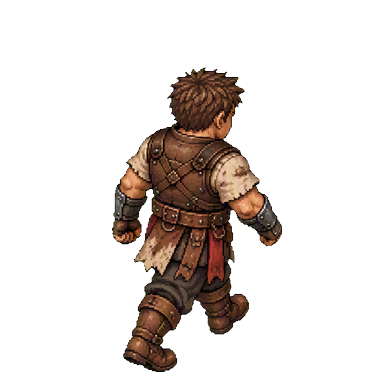
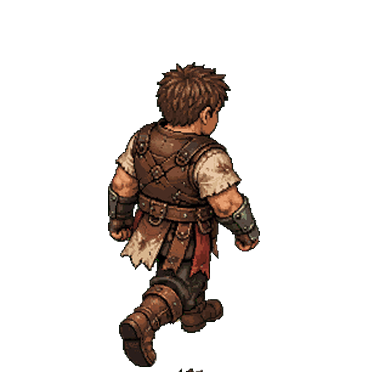
v97.90 Bram เดิน NE 12 เฟรม
Claude-Session: https://claude.ai/code/session_019t7yat9ZpwB9vYQUzd7rSJ

Changed region(s): [[0.2812, 0.1562, 0.75, 0.9688]]

diff --git a/village-town.html b/village-town.html
@@ -439,7 +439,7 @@ document.querySelectorAll('[data-game]').forEach(b=>b.onclick=()=>sendGame('menu
 
 document.addEventListener('pointerdown',()=>sendGame('input'),{capture:true});document.addEventListener('keydown',()=>sendGame('input'),{capture:true});
 rebuildRoads();heroRestore();renderList();fit();new ResizeObserver(fit).observe(stage);parent.postMessage({source:'project-a-town',type:'ready'},'*');document.fonts.ready.then(()=>terrainDirty=true);requestAnimationFrame(draw);const roadEdgeButton=$('roadEdgeStyle');if(roadEdgeButton){roadEdgeButton.onclick=()=>setRoadEdgeStyle(ROAD_EDGE_STYLE==='classic'?'texture':'classic');roadEdgeButton.textContent='ขอบถนน: '+(ROAD_EDGE_STYLE==='texture'?'ลายหินใหม่':'แบบเดิม');}
-</script><script src="js/village-layout-v67.js?v=82.14"></script><script src="js/village-grid.js?v=3"></script><script src="js/village-footprint.js?v=91.70"></script><script src="js/village-fence.js?v=1"></script><script src="js/town-ux.js?v=97.46"></script><script src="js/town-menu.js?v=72"></script><script src="js/village-biomes.js?v=72"></script><script src="js/village-forest.js?v=97.47"></script><script src="js/nature-alpha-masks.js"></script><script src="js/elements.js?v=97.50"></script><script src="js/world-state.js?v=97.76"></script><script src="js/villager-draw.js?v=97.89"></script><script src="js/village-life.js?v=97.76"></script><script src="js/village-lines.js?v=97.50"></script><script src="js/village-mind.js?v=97.34"></script><script src="js/town-npcs.js?v=97.40"></script><script src="js/town-quest.js?v=97.14"></script><script src="js/game-mood.js?v=74"></script><script src="js/hd2d.js?v=74"></script><script src="js/town-mood.js?v=91.74"></script><script src="js/village-frontage.js?v=83"></script><script src="js/proc-motion.js?v=81.8"></script><script src="js/github-push.js?v=97.03"></script><script src="js/village-asset-edit.js?v=97.47"></script><script>if(EDIT_PAGE&&window.TownPaint)GroundPaint.ui(TownPaint,{bar:()=>document.getElementById('townTools'),canvas:cv,toWorld:e=>world(e),before:()=>{TownUX.checkpoint();TownPaint.setClip?.(paintClip())},after:()=>TownUX.persist(),ensureEdit:()=>{if(!editing)$('edit').click()},onOpen:()=>{if(window.VillageAssetEdit?.placeId())VillageAssetEdit.leave();TownUX.setMode('object')}});</script><script src="js/editor-tools.js?v=91.77"></script><script src="js/asset-request.js?v=3"></script><script src="js/editor-auto.js?v=91.96"></script><script src="js/editor-layout.js?v=91.77"></script><script src="js/exit-edit.js?v=1"></script><script src="js/town-battle.js?v=97.78"></script><script src="js/console-ui.js?v=97.85"></script></html>
+</script><script src="js/village-layout-v67.js?v=82.14"></script><script src="js/village-grid.js?v=3"></script><script src="js/village-footprint.js?v=91.70"></script><script src="js/village-fence.js?v=1"></script><script src="js/town-ux.js?v=97.46"></script><script src="js/town-menu.js?v=72"></script><script src="js/village-biomes.js?v=72"></script><script src="js/village-forest.js?v=97.47"></script><script src="js/nature-alpha-masks.js"></script><script src="js/elements.js?v=97.50"></script><script src="js/world-state.js?v=97.76"></script><script src="js/villager-draw.js?v=97.90"></script><script src="js/village-life.js?v=97.76"></script><script src="js/village-lines.js?v=97.50"></script><script src="js/village-mind.js?v=97.34"></script><script src="js/town-npcs.js?v=97.40"></script><script src="js/town-quest.js?v=97.14"></script><script src="js/game-mood.js?v=74"></script><script src="js/hd2d.js?v=74"></script><script src="js/town-mood.js?v=91.74"></script><script src="js/village-frontage.js?v=83"></script><script src="js/proc-motion.js?v=81.8"></script><script src="js/github-push.js?v=97.03"></script><script src="js/village-asset-edit.js?v=97.47"></script><script>if(EDIT_PAGE&&window.TownPaint)GroundPaint.ui(TownPaint,{bar:()=>document.getElementById('townTools'),canvas:cv,toWorld:e=>world(e),before:()=>{TownUX.checkpoint();TownPaint.setClip?.(paintClip())},after:()=>TownUX.persist(),ensureEdit:()=>{if(!editing)$('edit').click()},onOpen:()=>{if(window.VillageAssetEdit?.placeId())VillageAssetEdit.leave();TownUX.setMode('object')}});</script><script src="js/editor-tools.js?v=91.77"></script><script src="js/asset-request.js?v=3"></script><script src="js/editor-auto.js?v=91.96"></script><script src="js/editor-layout.js?v=91.77"></script><script src="js/exit-edit.js?v=1"></script><script src="js/town-battle.js?v=97.78"></script><script src="js/console-ui.js?v=97.85"></script></html>
 
 
 <!-- Art sources and prompts: docs/ASSET_NOTES.txt. PNG objects are used for all buildings and props; roads and floor are native editable geometry. -->

diff --git a/js/villager-draw.js b/js/villager-draw.js
@@ -27,7 +27,7 @@
      (384×384, feet at y=372). v97.59: a direction without its own pictures uses the opposite one mirrored (SE←SW, NW←NE and back), so two directions are enough ·
      walk frames: 12 = a full 12-picture cycle (per-direction counts in wn; a direction with fewer pictures than its mirror uses the mirror's, flipped) · 4 = left contact, passing, right contact, passing · 2 = contact A, stand, contact B, stand · 1 = contact, stand, contact, stand · 0 = the standing picture with a bob.
      Falls back to the code-drawn figure until a standing picture has loaded. */
-  const SPR_INFO = { bram: { dirs: ['se', 'sw', 'ne', 'nw'], walk: 2, wn: { sw: 12 } }, luna: { dirs: ['se', 'sw', 'ne', 'nw'], walk: 1 }, kier: { dirs: ['se', 'sw', 'ne', 'nw'], walk: 0, wn: { sw: 12, ne: 12 } } }, dn = (info, d) => (info.wn && info.wn[d] != null ? info.wn[d] : info.walk), SPR = {}, MIR = { se: 'sw', sw: 'se', ne: 'nw', nw: 'ne' };
+  const SPR_INFO = { bram: { dirs: ['se', 'sw', 'ne', 'nw'], walk: 2, wn: { sw: 12, ne: 12 } }, luna: { dirs: ['se', 'sw', 'ne', 'nw'], walk: 1 }, kier: { dirs: ['se', 'sw', 'ne', 'nw'], walk: 0, wn: { sw: 12, ne: 12 } } }, dn = (info, d) => (info.wn && info.wn[d] != null ? info.wn[d] : info.walk), SPR = {}, MIR = { se: 'sw', sw: 'se', ne: 'nw', nw: 'ne' };
   function sprites(name) {
     let S = SPR[name]; if (S) return S; S = SPR[name] = {}; const info = SPR_INFO[name]; if (!info || typeof Image === 'undefined') return S;
     for (const d of info.dirs) for (const k of ['stand', ...Array.from({ length: dn(info, d) }, (_, n) => 'walk' + (n + 1))]) { const im = new Image(); im.src = 'assets/village-town/npc/' + name + '/' + d + '-' + k + '.webp'; S[d + '-' + k] = im }

diff --git a/battle-field.html b/battle-field.html
@@ -7,7 +7,7 @@
 </style></head><body>
 <canvas id="world" aria-label="สนามรบ"></canvas>
 <script>window.FIELD_K=Math.min(2.5,Math.max(.6,+new URLSearchParams(location.search).get('k')||1.5))</script><script src="js/touch.js?v=94.02"></script><script src="js/asset-manifest.js?v=97.69"></script><script src="js/tactics-sprites.js?v=97.47"></script>
-<script src="js/hero-motion.js"></script><script src="js/world-state.js?v=97.76"></script><script src="js/villager-draw.js?v=97.89"></script><script src="js/village-life.js?v=97.76"></script>
+<script src="js/hero-motion.js"></script><script src="js/world-state.js?v=97.76"></script><script src="js/villager-draw.js?v=97.90"></script><script src="js/village-life.js?v=97.76"></script>
 <script src="js/terrain-height.js?v=96.00"></script><script src="js/terrain-height-art.js?v=96.00"></script><script src="js/field-diorama.js?v=97.01"></script><script src="js/field-host.js?v=97.15"></script>
 <script src="js/town-battle.js?v=97.78"></script>
 <script src="js/console-ui.js?v=97.85"></script></body></html>

diff --git a/village-place.html b/village-place.html
@@ -1398,4 +1398,4 @@ setup();
 resize();
 send('ready');
 requestAnimationFrame(draw);
-</script><script src="js/place-build.js?v=87"></script><script src="js/world-state.js?v=97.76"></script><script src="js/villager-draw.js?v=97.89"></script><script src="js/village-life.js?v=97.76"></script><script src="js/village-lines.js?v=97.50"></script><script src="js/village-mind.js?v=97.34"></script><script src="js/place-people.js?v=97.69"></script><script src="js/editor-tools.js?v=91.77"></script></html>
+</script><script src="js/place-build.js?v=87"></script><script src="js/world-state.js?v=97.76"></script><script src="js/villager-draw.js?v=97.90"></script><script src="js/village-life.js?v=97.76"></script><script src="js/village-lines.js?v=97.50"></script><script src="js/village-mind.js?v=97.34"></script><script src="js/place-people.js?v=97.69"></script><script src="js/editor-tools.js?v=91.77"></script></html>

diff --git a/js/game-version.js b/js/game-version.js
@@ -2,6 +2,6 @@
    Major release: increment the main number (v80 → v81).
    Small patch (⬆ Push from an editor): increment the suffix counter (v81.13 → v81.14; treat it as a sequence, not a decimal).
    The commit message starts with the same version. Editor pushes bump the suffix automatically. */
-window.GAME_VERSION={v:'v97.89',date:'2026-10-30',repo:'ekkavish31/Project-Agrenor-Tactical-Card-Game'};
+window.GAME_VERSION={v:'v97.90',date:'2026-10-30',repo:'ekkavish31/Project-Agrenor-Tactical-Card-Game'};
 /* v91.94 · asset cache (sw.js): reloads reuse the ~60 MB of map images; a new version fetches them once; Ctrl+F5 refreshes the stored copies */
 try{if('serviceWorker' in navigator&&/^https?:$/.test(location.protocol))navigator.serviceWorker.register('sw.js?v='+encodeURIComponent(window.GAME_VERSION.v)).catch(()=>{})}catch(e){}

diff --git a/place-interior.html b/place-interior.html
@@ -7,7 +7,7 @@
 button{font:inherit;cursor:pointer}
 </style></head><body>
 <canvas id="room" aria-label="ภายในสถานที่"></canvas>
-<script src="js/world-state.js?v=97.76"></script><script src="js/touch.js?v=94.02"></script><script src="js/villager-draw.js?v=97.89"></script>
+<script src="js/world-state.js?v=97.76"></script><script src="js/touch.js?v=94.02"></script><script src="js/villager-draw.js?v=97.90"></script>
 <script src="js/village-life.js?v=97.76"></script>
 <script src="js/village-lines.js?v=97.50"></script>
 <script src="js/village-mind.js?v=97.34"></script>
